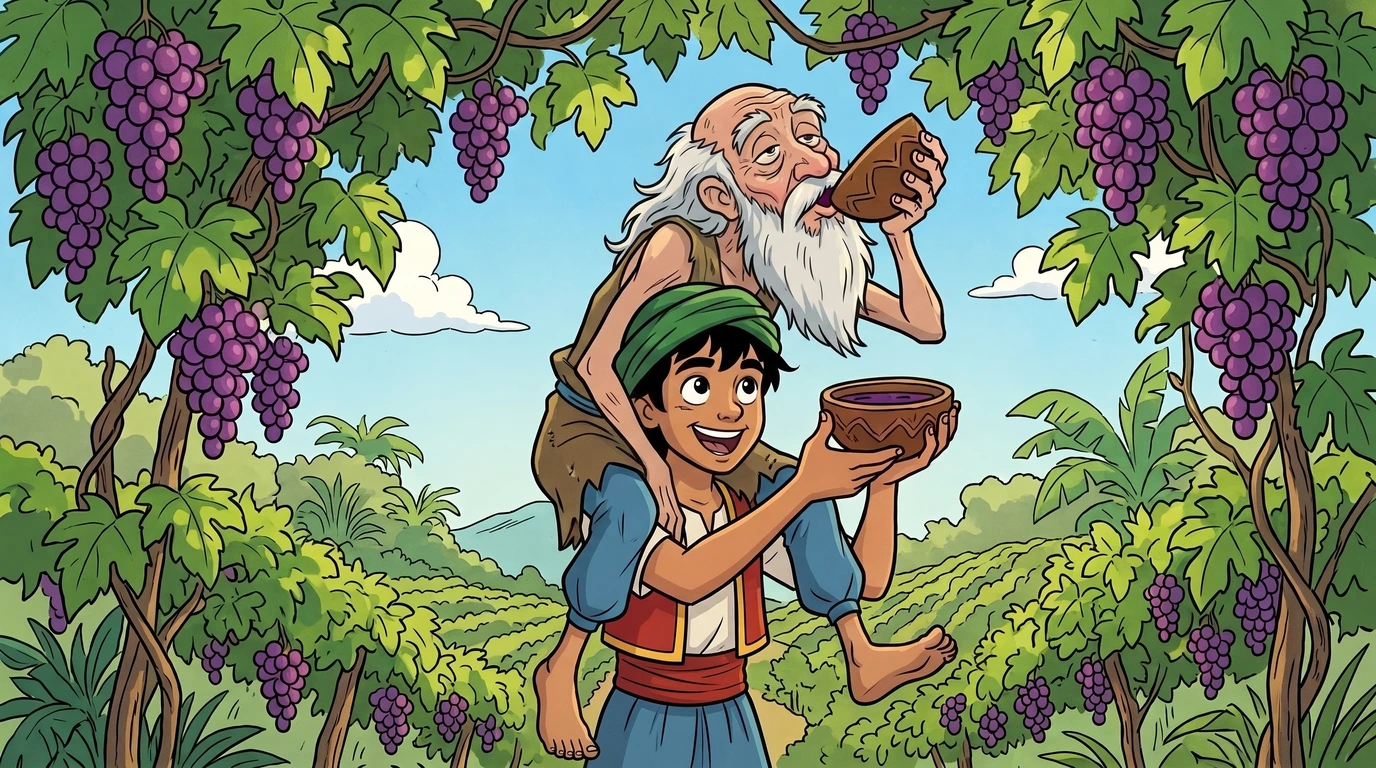
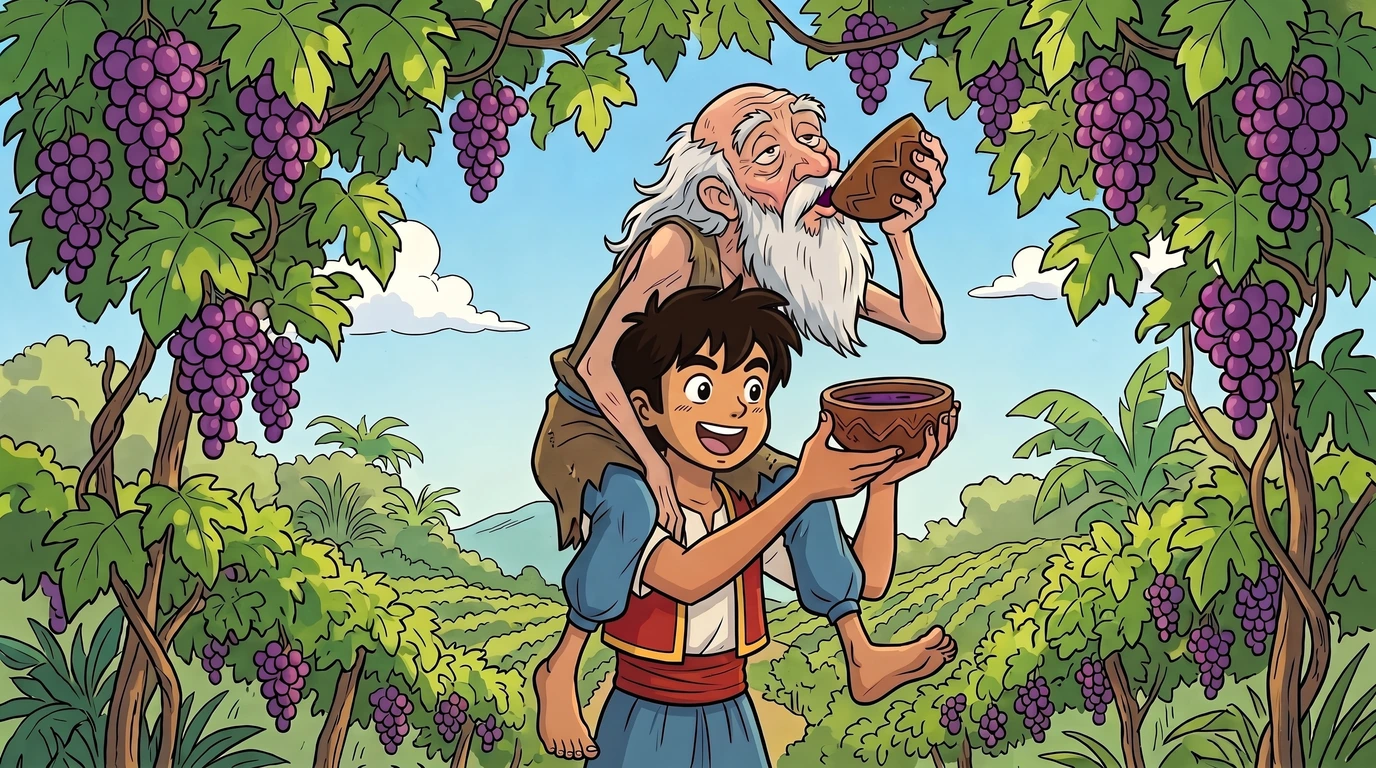
fix(sinbad): update vineyard illustration

diff --git a/learning/literacy-numeracy/story-books/world-tales/sinbad/app.js b/learning/literacy-numeracy/story-books/world-tales/sinbad/app.js
@@ -273,7 +273,7 @@ const CHAPTERS = [
 function artFrame(src, emoji) {
     return `
         <div class="art-frame">
-            <img src="images/${src}?v=20260926sinbad13" alt="" onerror="this.style.display='none'; this.nextElementSibling.style.display='flex';">
+            <img src="images/${src}?v=20260926sinbad14" alt="" onerror="this.style.display='none'; this.nextElementSibling.style.display='flex';">
             <div class="art-fallback" style="display:none">${emoji}</div>
         </div>`;
 }

diff --git a/learning/literacy-numeracy/story-books/world-tales/sinbad/index.html b/learning/literacy-numeracy/story-books/world-tales/sinbad/index.html
@@ -36,6 +36,6 @@
         <div class="vocab-panel" id="vocabPanel"></div>
     </div>
 
-    <script src="app.js?v=20260926sinbad13"></script>
+    <script src="app.js?v=20260926sinbad14"></script>
 </body>
 </html>
